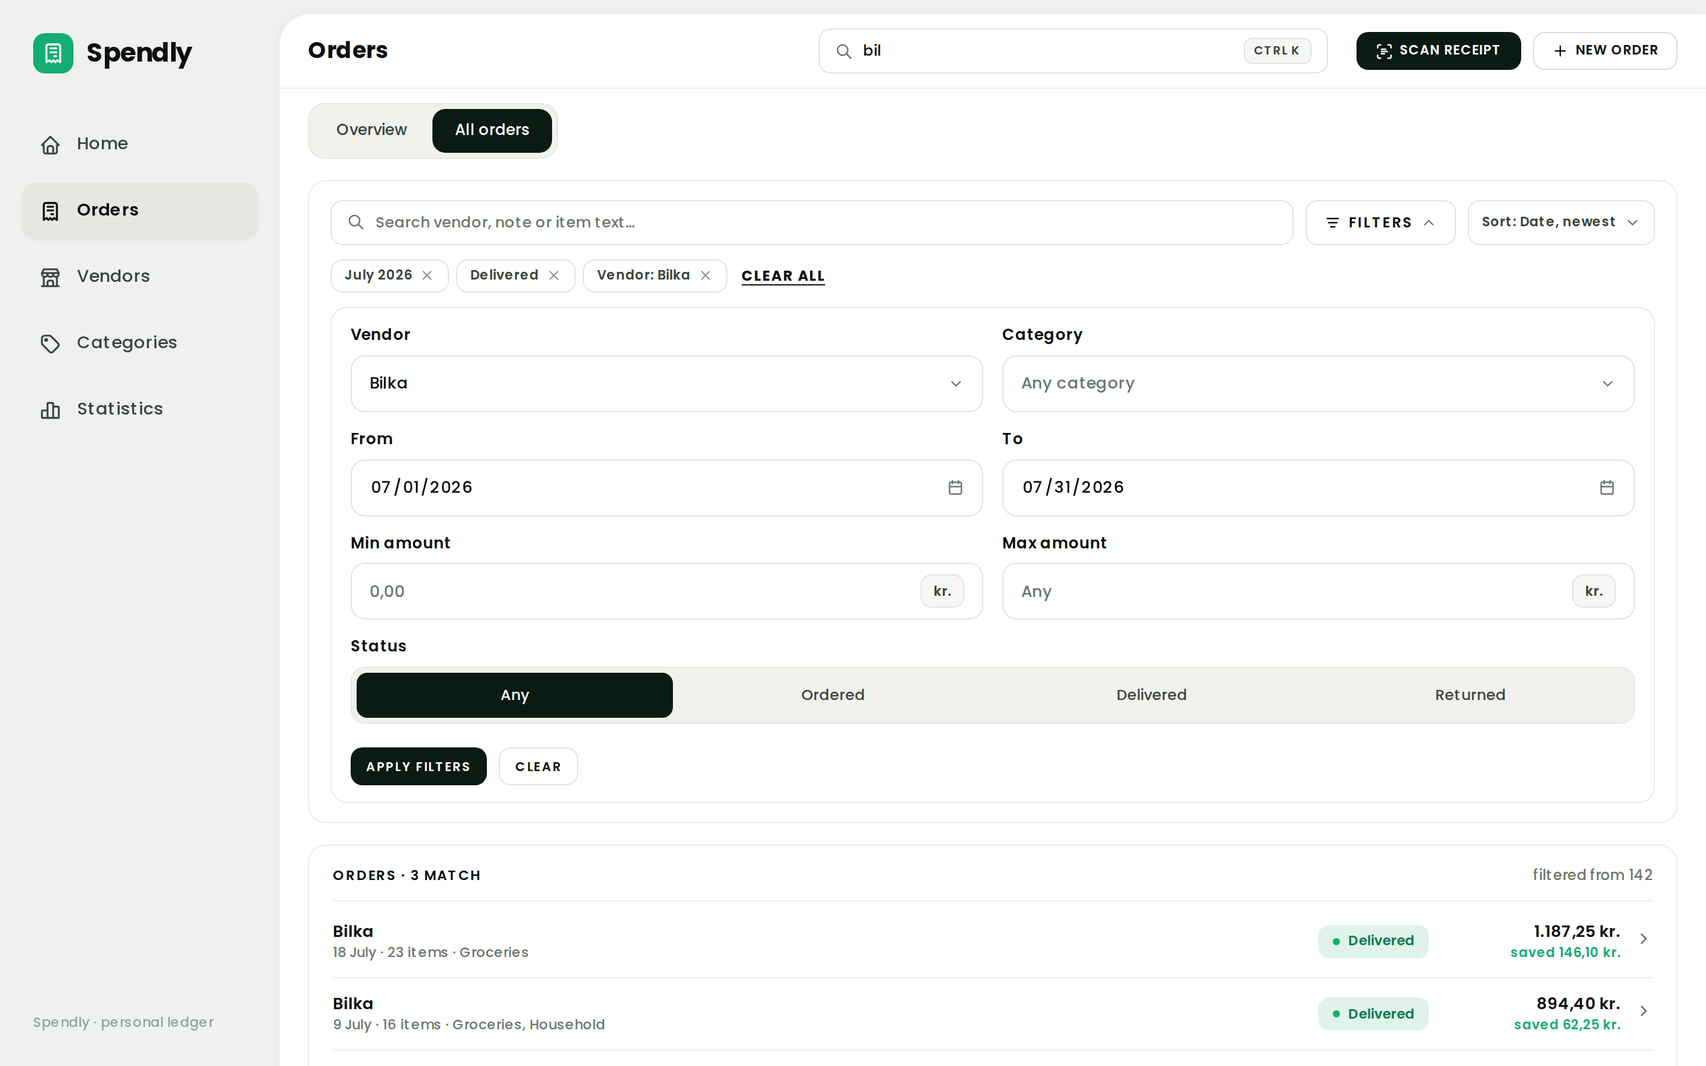
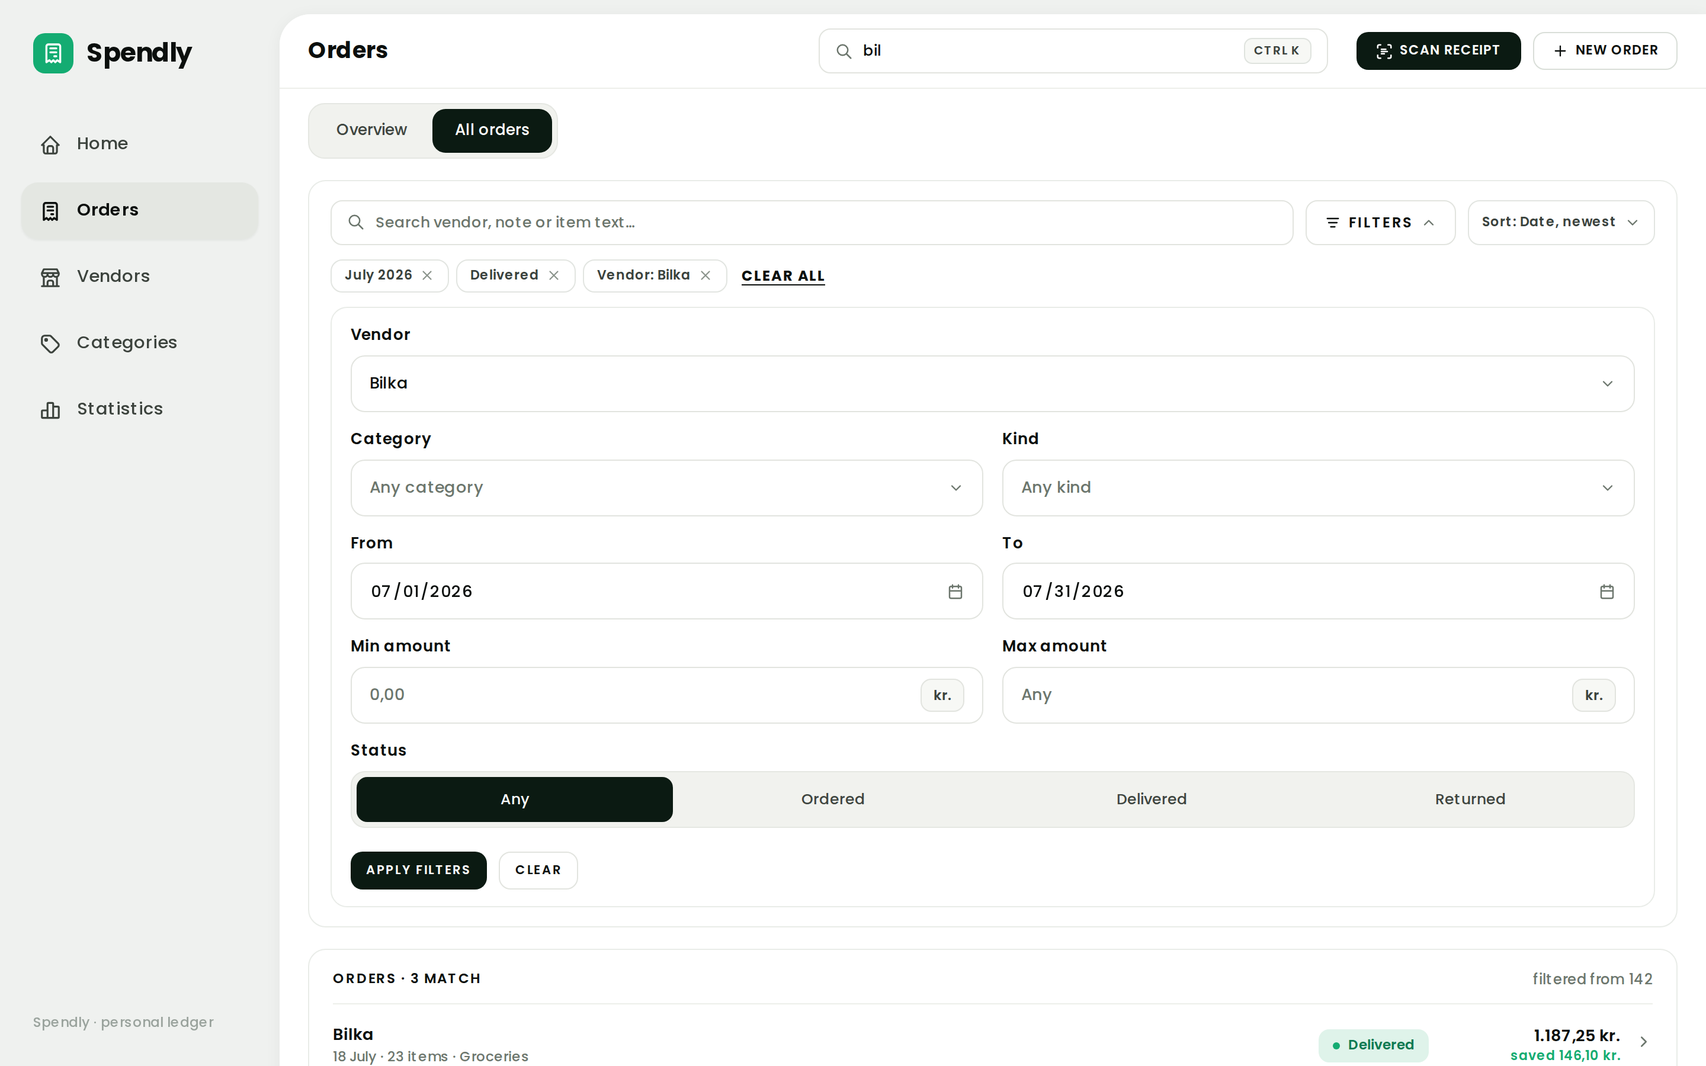
Give Kind a place in the UI, and split it from Status for the port
Order.Status shipped as None/Expense/Gift/Sold/Work/Other, which is not a
status -- no member can follow another, and None = 0 is a stage no order is
ever in. Those values answer whether an order was the user's money at all;
Work means work bought it and it cost them nothing. The prototype meanwhile
had already grown the real lifecycle, Ordered / Delivered / Returned, so the
two were sharing one name and one column.

Surface the classification as Kind, a combobox rather than a segmented
control: six values with no sequence give the segments-run-in-order rule
nothing to order, and six segments do not fit a 48px row. It carries its
consequence in help text, because "Kind" alone does not say what the field
decides. It appears wherever Categories already does -- the create form, the
create summary, the order detail rail -- plus the filter panel.

Regroup the rows that now hold it. Vendor takes a row of its own in the
filter panel and the create form, since it carries the longest strings and a
pair gave it half the room; Category and Kind take the pair it left, Date
pairs with Status. Measured at 1440 and on an iPhone 13 descriptor: the
status segmented control holds 341.8px across all three selected states with
109.27px segments, no overflow at 390px (scrollWidth 390 = clientWidth), and
the filter panel goes 509px to 597px at =<900 against the 687px the reversed
roles would cost. The taller panel pushes the result rows out of the
[…]

diff --git a/spendly.html b/spendly.html
@@ -1169,35 +1169,40 @@ label.finput { cursor:pointer; }
 						<div style="font-size:19px;font-weight:600;letter-spacing:-.01em">Order details</div>
 						<p style="margin:2px 0 18px;font-size:13px;color:var(--muted)">Where you bought, when, and how it arrived.</p>
 						<div class="fform" style="max-width:none">
-							<div class="frow2">
-								<label class="ffield"><span>Vendor</span>
-									<div class="combo">
-										<div class="finput"><svg class="i" viewBox="0 0 24 24" style="width:15px;height:15px;color:var(--muted)"><path d="M3 10a7 7 0 1 0 14 0a7 7 0 1 0 -14 0 M21 21l-6 -6"></path></svg><input type="text" role="combobox" aria-expanded="false" aria-controls="vendorPanel" aria-autocomplete="list" value="Matas" placeholder="Search vendors…" aria-label="Vendor"><svg class="i chev-i" viewBox="0 0 24 24" style="width:14px;height:14px;margin-left:auto;color:var(--muted)"><path d="M6 9l6 6l6 -6"></path></svg></div>
-										<div class="combo-panel" id="vendorPanel" role="listbox" aria-label="Vendors">
-											<div class="cgroup"><span>Favourites</span>
-												<div class="copt"><span class="star"><svg class="i" viewBox="0 0 24 24" style="width:14px;height:14px;fill:currentColor;stroke:none"><path d="M8.243 7.34l-6.38 .925l-.113 .023a1 1 0 0 0 -.44 1.684l4.622 4.499l-1.09 6.355l-.013 .11a1 1 0 0 0 1.464 .944l5.706 -3l5.693 3l.1 .046a1 1 0 0 0 1.352 -1.1l-1.091 -6.355l4.624 -4.5l.078 -.085a1 1 0 0 0 -.633 -1.62l-6.38 -.926l-2.852 -5.78a1 1 0 0 0 -1.794 0l-2.853 5.78z"></path></svg></span><mark>Mat</mark>as<span class="meta">29 orders</span></div>
-												<div class="copt"><span class="star"><svg class="i" viewBox="0 0 24 24" style="width:14px;height:14px;fill:currentColor;stroke:none"><path d="M8.243 7.34l-6.38 .925l-.113 .023a1 1 0 0 0 -.44 1.684l4.622 4.499l-1.09 6.355l-.013 .11a1 1 0 0 0 1.464 .944l5.706 -3l5.693 3l.1 .046a1 1 0 0 0 1.352 -1.1l-1.091 -6.355l4.624 -4.5l.078 -.085a1 1 0 0 0 -.633 -1.62l-6.38 -.926l-2.852 -5.78a1 1 0 0 0 -1.794 0l-2.853 5.78z"></path></svg></span>Proshop<span class="meta">34 orders</span></div>
-											</div>
-											<div class="cgroup"><span>All vendors</span>
-												<div class="copt hl" role="option" aria-selected="true"><mark>Mat</mark>as Nord<span class="meta">3 orders</span></div>
-												<div class="copt">Silvan · <mark>Mat</mark>erialer<span class="meta">14 orders</span></div>
-											</div>
-											<div class="combo-action"><svg class="i" viewBox="0 0 24 24" style="width:15px;height:15px"><path d="M12 5l0 14 M5 12l14 0"></path></svg>CREATE VENDOR "MAT"</div>
+							<label class="ffield"><span>Vendor</span>
+								<div class="combo">
+									<div class="finput"><svg class="i" viewBox="0 0 24 24" style="width:15px;height:15px;color:var(--muted)"><path d="M3 10a7 7 0 1 0 14 0a7 7 0 1 0 -14 0 M21 21l-6 -6"></path></svg><input type="text" role="combobox" aria-expanded="false" aria-controls="vendorPanel" aria-autocomplete="list" value="Matas" placeholder="Search vendors…" aria-label="Vendor"><svg class="i chev-i" viewBox="0 0 24 24" style="width:14px;height:14px;margin-left:auto;color:var(--muted)"><path d="M6 9l6 6l6 -6"></path></svg></div>
+									<div class="combo-panel" id="vendorPanel" role="listbox" aria-label="Vendors">
+										<div class="cgroup"><span>Favourites</span>
+											<div class="copt"><span class="star"><svg class="i" viewBox="0 0 24 24" style="width:14px;height:14px;fill:currentColor;stroke:none"><path d="M8.243 7.34l-6.38 .925l-.113 .023a1 1 0 0 0 -.44 1.684l4.622 4.499l-1.09 6.355l-.013 .11a1 1 0 0 0 1.464 .944l5.706 -3l5.693 3l.1 .046a1 1 0 0 0 1.352 -1.1l-1.091 -6.355l4.624 -4.5l.078 -.085a1 1 0 0 0 -.633 -1.62l-6.38 -.926l-2.852 -5.78a1 1 0 0 0 -1.794 0l-2.853 5.78z"></path></svg></span><mark>Mat</mark>as<span class="meta">29 orders</span></div>
+											<div class="copt"><span class="star"><svg class="i" viewBox="0 0 24 24" style="width:14px;height:14px;fill:currentColor;stroke:none"><path d="M8.243 7.34l-6.38 .925l-.113 .023a1 1 0 0 0 -.44 1.684l4.622 4.499l-1.09 6.355l-.013 .11a1 1 0 0 0 1.464 .944l5.706 -3l5.693 3l.1 .046a1 1 0 0 0 1.352 -1.1l-1.091 -6.355l4.624 -4.5l.078 -.085a1 1 0 0 0 -.633 -1.62l-6.38 -.926l-2.852 -5.78a1 1 0 0 0 -1.794 0l-2.853 5.78z"></path></svg></span>Proshop<span class="meta">34 orders</span></div>
 										</div>
+										<div class="cgroup"><span>All vendors</span>
+											<div class="copt hl" role="option" aria-selected="true"><mark>Mat</mark>as Nord<span class="meta">3 orders</span></div>
+											<div class="copt">Silvan · <mark>Mat</mark>erialer<span class="meta">14 orders</span></div>
+										</div>
+										<div class="combo-action"><svg class="i" viewBox="0 0 24 24" style="width:15px;height:15px"><path d="M12 5l0 14 M5 12l14 0"></path></svg>CREATE VENDOR "MAT"</div>
 									</div>
-									<span class="fhelp">Every dropdown is this combobox: type to search, grouped results, create from the foot.</span></label>
+								</div>
+								<span class="fhelp">Every dropdown is this combobox: type to search, grouped results, create from the foot.</span></label>
+							<div class="frow2">
 								<label class="ffield"><span>Date</span><div class="finput fdate"><input type="date" value="2026-07-25" aria-label="Order date"><span class="dtrail"><span class="unit">today</span><svg class="i" viewBox="0 0 24 24" style="width:15px;height:15px;color:var(--muted)"><path d="M4 7a2 2 0 0 1 2 -2h12a2 2 0 0 1 2 2v12a2 2 0 0 1 -2 2h-12a2 2 0 0 1 -2 -2z M16 3v4 M8 3v4 M4 11h16"></path></svg></span></div></label>
+								<div class="ffield"><span>Status</span>
+									<div class="subtabs mini" role="tablist">
+										<button type="button" role="tab" aria-selected="false">Ordered</button>
+										<button type="button" class="on" role="tab" aria-selected="true">Delivered</button>
+										<button type="button" role="tab" aria-selected="false">Returned</button>
+									</div></div>
 							</div>
-							<div class="ffield"><span>Status</span>
-								<div class="subtabs mini" role="tablist">
-									<button type="button" role="tab" aria-selected="false">Ordered</button>
-									<button type="button" class="on" role="tab" aria-selected="true">Delivered</button>
-									<button type="button" role="tab" aria-selected="false">Returned</button>
-								</div></div>
-							<label class="ffield"><span>Categories</span>
-								<div class="finput" style="height:auto;min-height:48px;padding:8px 10px;flex-wrap:wrap">
-									<span class="chip2">Household<svg class="i" viewBox="0 0 24 24" style="width:13px;height:13px;color:#8B948C"><path d="M18 6l-12 12 M6 6l12 12"></path></svg></span><span class="chip2">Groceries<svg class="i" viewBox="0 0 24 24" style="width:13px;height:13px;color:#8B948C"><path d="M18 6l-12 12 M6 6l12 12"></path></svg></span>
-									<input type="text" role="combobox" aria-expanded="false" aria-autocomplete="list" placeholder="Add category…" aria-label="Add category" style="flex:1 1 120px"></div></label>
+							<div class="frow2 stack-early">
+								<label class="ffield"><span>Categories</span>
+									<div class="finput" style="height:auto;min-height:48px;padding:8px 10px;flex-wrap:wrap">
+										<span class="chip2">Household<svg class="i" viewBox="0 0 24 24" style="width:13px;height:13px;color:#8B948C"><path d="M18 6l-12 12 M6 6l12 12"></path></svg></span><span class="chip2">Groceries<svg class="i" viewBox="0 0 24 24" style="width:13px;height:13px;color:#8B948C"><path d="M18 6l-12 12 M6 6l12 12"></path></svg></span>
+										<input type="text" role="combobox" aria-expanded="false" aria-autocomplete="list" placeholder="Add category…" aria-label="Add category" style="flex:1 1 120px"></div></label>
+								<label class="ffield"><span>Kind</span>
+									<div class="finput"><input type="text" role="combobox" aria-expanded="false" aria-autocomplete="list" value="Expense" placeholder="Expense" aria-label="Kind"><svg class="i chev-i" viewBox="0 0 24 24" style="width:14px;height:14px;margin-left:auto;color:var(--muted)"><path d="M6 9l6 6l6 -6"></path></svg></div>
+									<span class="fhelp">Only expenses count towards your totals.</span></label>
+							</div>
 							<div class="tsec">
 								<div class="between"><b style="font-size:14px">More details?</b><button type="button" class="toggle" role="switch" aria-checked="true" aria-label="More details"></button></div>
 								<div class="frow2">
@@ -1223,6 +1228,7 @@ label.finput { cursor:pointer; }
 						<div class="sumrow">Date<b>25.07.2026</b></div>
 						<div class="sumrow">Status<b>Delivered</b></div>
 						<div class="sumrow">Categories<b>Household, Groceries</b></div>
+						<div class="sumrow">Kind<b>Expense</b></div>
 						<div class="sumrow" style="border-bottom:0">Shipping<b class="num">0,00 kr.</b></div>
 						<div class="card-hr" style="margin:4px 0 0"></div>
 						<div class="sum-total">Total est.<span class="v num">0,00 kr.</span></div>
@@ -1368,6 +1374,7 @@ label.finput { cursor:pointer; }
 						<div class="sumrow">Date<b class="num">24.07.2026</b></div>
 						<div class="sumrow">Vendor<b>Proshop</b></div>
 						<div class="sumrow">Categories<b>Electronics, Home office</b></div>
+						<div class="sumrow">Kind<b>Expense</b></div>
 						<div class="sumrow" style="border-bottom:0">Saved vs retail<b class="num" style="color:var(--green)">612,00 kr. (12,5%)</b></div>
 					</div>
 				</section>
@@ -1520,9 +1527,10 @@ label.finput { cursor:pointer; }
 					</div>
 					<p class="sr-only" role="status" id="filterLive"></p>
 					<div class="tsec" id="filterPanel">
+						<label class="ffield"><span>Vendor</span><div class="finput"><input type="text" role="combobox" aria-expanded="false" aria-autocomplete="list" value="Bilka" placeholder="Any vendor" aria-label="Vendor"><svg class="i chev-i" viewBox="0 0 24 24" style="width:14px;height:14px;margin-left:auto;color:var(--muted)"><path d="M6 9l6 6l6 -6"></path></svg></div></label>
 						<div class="frow2 stack-early">
-							<label class="ffield"><span>Vendor</span><div class="finput"><input type="text" role="combobox" aria-expanded="false" aria-autocomplete="list" value="Bilka" placeholder="Any vendor" aria-label="Vendor"><svg class="i chev-i" viewBox="0 0 24 24" style="width:14px;height:14px;margin-left:auto;color:var(--muted)"><path d="M6 9l6 6l6 -6"></path></svg></div></label>
 							<label class="ffield"><span>Category</span><div class="finput"><input type="text" role="combobox" aria-expanded="false" aria-autocomplete="list" placeholder="Any category" aria-label="Category"><svg class="i chev-i" viewBox="0 0 24 24" style="width:14px;height:14px;margin-left:auto;color:var(--muted)"><path d="M6 9l6 6l6 -6"></path></svg></div></label>
+							<label class="ffield"><span>Kind</span><div class="finput"><input type="text" role="combobox" aria-expanded="false" aria-autocomplete="list" placeholder="Any kind" aria-label="Kind"><svg class="i chev-i" viewBox="0 0 24 24" style="width:14px;height:14px;margin-left:auto;color:var(--muted)"><path d="M6 9l6 6l6 -6"></path></svg></div></label>
 						</div>
 						<div class="frow2 keep-pair">
 							<label class="ffield"><span>From</span><div class="finput fdate"><input type="date" value="2026-07-01" aria-label="From date"><span class="dtrail"><svg class="i" viewBox="0 0 24 24" style="width:15px;height:15px;color:var(--muted)"><path d="M4 7a2 2 0 0 1 2 -2h12a2 2 0 0 1 2 2v12a2 2 0 0 1 -2 2h-12a2 2 0 0 1 -2 -2z M16 3v4 M8 3v4 M4 11h16"></path></svg></span></div></label>

diff --git a/README.md b/README.md
@@ -23,7 +23,7 @@ layer floats on the gray shell; the sidebar sits directly on it.
 **All orders** — the search surface, with the filter panel open. Both control tiers are visible: 38px
 toolbar controls in the top row, 48px entry fields in the panel below them.
 
-![Spendly's all-orders screen: search field, FILTERS and sort controls, removable filter chips, a filter panel with comboboxes, date and amount fields and a segmented status control, then result rows with status chips](docs/all-orders.png)
+![Spendly's all-orders screen: search field, FILTERS and sort controls, removable filter chips, a filter panel with a full-width vendor combobox, category and kind comboboxes, date and amount fields and a segmented status control, then the first result row with its status chip](docs/all-orders.png)
 
 **Phone, 390px** — flat white and edge to edge on one 12px gutter. The paper is square, the cards on
 it keep their radius, the labels shorten to SCAN and NEW, and the sidebar has become five equal tabs.
@@ -355,6 +355,13 @@ place the accent is spent on chrome. **The wordmark is "Spendly" — never "Sple
   that stands outside the sequence rather than in it, filters' **Any**, leads; it is the default, not
   a stage. Which segment is *selected* is a separate decision from where it sits: both forms still
   open on Delivered, because most orders are entered after they arrive.
+- **An enum earns a segmented control by being short and sequential; otherwise it is a combobox.**
+  Kind — Expense / Gift / Sold / Work / Other, which records whether an order was your money at all —
+  is an enum and is not segmented. Its values name ways an order reached Spendly, not stages an order
+  passes through, so the sequence rule above has nothing to put in order, and six segments in a 48px
+  row are unreadable at every width the form gets. It uses the same combobox as Vendor and Category,
+  and carries its consequence in help text under the field, since "Kind" alone does not say what the
+  field decides. Status stays segmented: three values, one lifecycle.
 - **Selecting a segment may not change its text metrics.** The track is `width:max-content`, so a
   heavier active label widens the whole control, and every control sharing its row — the toolbar
   search is `flex:1` — resizes to absorb the difference; because the labels are not equal-width the
@@ -364,13 +371,16 @@ place the accent is spent on chrome. **The wordmark is "Spendly" — never "Sple
 - **A range stays on one line; a row of names breaks.** Two fields side by side are not all the same
   kind of pair. **From/To and Min/Max are one control each** — an end is read against the other end,
   so they hold their pairing down to the smallest phone (`.keep-pair`, past the ≤700 collapse that
-  would otherwise split them). **Vendor and Category are two independent values** that happen to share
-  a row, and they carry the long strings, so that row breaks to one field per line at ≤900
-  (`.stack-early`) — the phone layout starts at 700, so from 701 to 900 the sidebar is still standing
-  and a name is down to 165px, with a phone in landscape (844px) inside that band. At 390px: names get
-  the full 294px, each range column gets 139px, and the values fit it — a date wants 163px of text
-  room and has it, an amount 81. Panel height 509px against the 599 it would take with the roles
-  reversed. **Which way a row splits is a question about what the fields mean, not about their width.**
+  would otherwise split them). **Category and Kind are two independent values** that happen to share a
+  row, and they carry names, so that row breaks to one field per line at ≤900 (`.stack-early`) — the
+  phone layout starts at 700, so from 701 to 900 the sidebar is still standing and a name is down to
+  165px, with a phone in landscape (844px) inside that band. **Vendor holds a row by itself at every
+  width**, because it carries the longest strings in the panel — `Silvan · Materialer`, and whatever a
+  user creates — and a pair gave it half the room at exactly the widths where it had least. At 390px:
+  names get the full 294px, each range column gets 139px, and the values fit it — a date wants 163px
+  of text room and has it, an amount 81. Panel height 597px against the 687 it would take with the
+  roles reversed; the fifth field is what the extra 88px bought, not a worse arrangement of the same
+  four. **Which way a row splits is a question about what the fields mean, not about their width.**
   This holds for every range, not just these two: a from/to or a min/max pair added anywhere gets
   `.keep-pair` on the row. The tally today is two — All orders' dates and amounts — and both carry it;
   count before adding a third. Ports without these class names still owe the behaviour: a range does
@@ -510,15 +520,19 @@ horizontal scroll ≤1180, stacks ≤700), rail with returns, question of the da
 (Expenses | Budget segmented plus donut), ORDER SETTINGS.
 
 **Orders / All orders** — the search surface: 38px finder input (vendor, note, item text), FILTERS
-disclosing the inline panel it opens and collapses (vendor and category comboboxes, from/to, min/max
-with `kr.` units, status segmented led by Any, APPLY 32px + CLEAR), active filters as removable ×
+disclosing the inline panel it opens and collapses (a full-width vendor combobox, then category and
+kind comboboxes, from/to, min/max with `kr.` units, status segmented led by Any, APPLY 32px +
+CLEAR), active filters as removable ×
 chips plus CLEAR ALL, sort combobox chip, results line "N match · filtered from total", rows with
 status chips and saved amounts, PREVIOUS/NEXT. Sub-tabs double as one-tap status filters.
 
 **Order detail** — back arrow in the **top bar**, never floating in a card. **No internal ids shown.**
 Header card (vendor, date and count, category chips, status chip, edit/delete); items with photos and
 **paid prices only** — retail never displays on details; totals with the order-level green saved
-line; rail with details facts, attachments (ADD FILE, open/delete) and the contextual dark scan card.
+line; rail with details facts (status, date, vendor, categories, **kind**, saved vs retail),
+attachments (ADD FILE, open/delete) and the contextual dark scan card. **Kind is shown wherever
+Categories is** — this rail and the create summary — so a total with a hole in it can be explained
+from the order that made it.
 
 **Scan flow** — three steps, Upload → Reading → Review, with the stepper. Reading is a full-width card
 sharing the stepper's edges, with a centred column inside: document preview, filename headline, help
@@ -526,6 +540,9 @@ line, an **indeterminate progress bar** (a 38% segment sliding on a 420px track,
 card, no percentage claimed because a scan has none) and the review link. No spinner — the moving bar
 carries the busy state on its own. Review as in [§9](#9-forms-and-fields), with the draft fields
 paired two to a row: **Vendor and Date on the first line, Shipping fee and Status on the second.**
+**Kind is deliberately not on the review.** A receipt records what was bought, never whose money paid
+for it, so there is nothing for the scan to read and nothing for the reviewer to confirm; the draft
+takes the default and the field is set on the order. Its absence here is a decision, not an omission.
 
 **Vendors** — hero panel (warm tint `#EDEEE7`, big sentence, dark caps CTA), favourite spotlight cards
 (caps header and chip, sentence, inner panel rows, full-width VIEW ORDERS), full-width search with
@@ -795,5 +812,26 @@ iOS zooms the page whenever a focused control computes under 16px, and every fie
   more relational but only ever serves this one feature. Do not reach for `localStorage`: on Blazor
   Server that means JS interop for something the server already has a database for, and the choice
   would not follow the user between devices.
+- **`Order.Status` is two fields, not one.** It shipped as `None/Expense/Gift/Sold/Work/Other`, which
+  is not a status: no member can follow another, and `None = 0` is a stage no order is ever in. Those
+  values answer whether the order was the user's money at all — `Work` means work bought it and it
+  cost them nothing — and their only consumer is a yes/no. Split them. `OrderStatus { Ordered = 1,
+  Delivered = 2, Returned = 3 }` is the lifecycle, numbered in that order because [§9](#9-forms-and-fields)
+  makes the sequence the sort key, with no `None` and no `Any` — `Any` is a filter sentinel, null on
+  the query object, never an enum member. `SpendKind` keeps the old integers so not a row migrates.
+  **Rename that column, never redefine it in place**: reusing `Status` for the lifecycle silently
+  reinterprets every existing row — `Expense` reads back as `Ordered`, `Sold` as `Returned`, `Work`
+  and `Other` fall outside the enum — and nothing anywhere errors.
+- **Whether an order counts as spend is derived, and one expression owns it.** Two inputs, not one: a
+  returned order is refunded, so it stops counting the moment its status changes, and a stored flag
+  would have to be rewritten by every path that touches status — the first one that forgets leaves a
+  refund in the month's spend. The same expression gates **both** families of total: the spend
+  figures and saved-vs-retail. A work-bought order carries real paid and retail prices, so leaving it
+  in the saved total claims a discount that was never the user's. Write it as an
+  `Expression<Func<Order, bool>>`, not a `[NotMapped]` property — EF cannot translate a property into
+  SQL, and every headline on the overview sums through it. **Port the existing predicate verbatim
+  before changing what it means**, in its own commit: `Gift` and `Sold` are recorded but their spend
+  treatment was never written down, and if the enum and the rule move together a shifted total has
+  two possible causes.
 - **Follow CLAUDE.md's uniformity discipline** — before adding any variant, grep for the pattern and
   match the tally, not a single neighbour.
